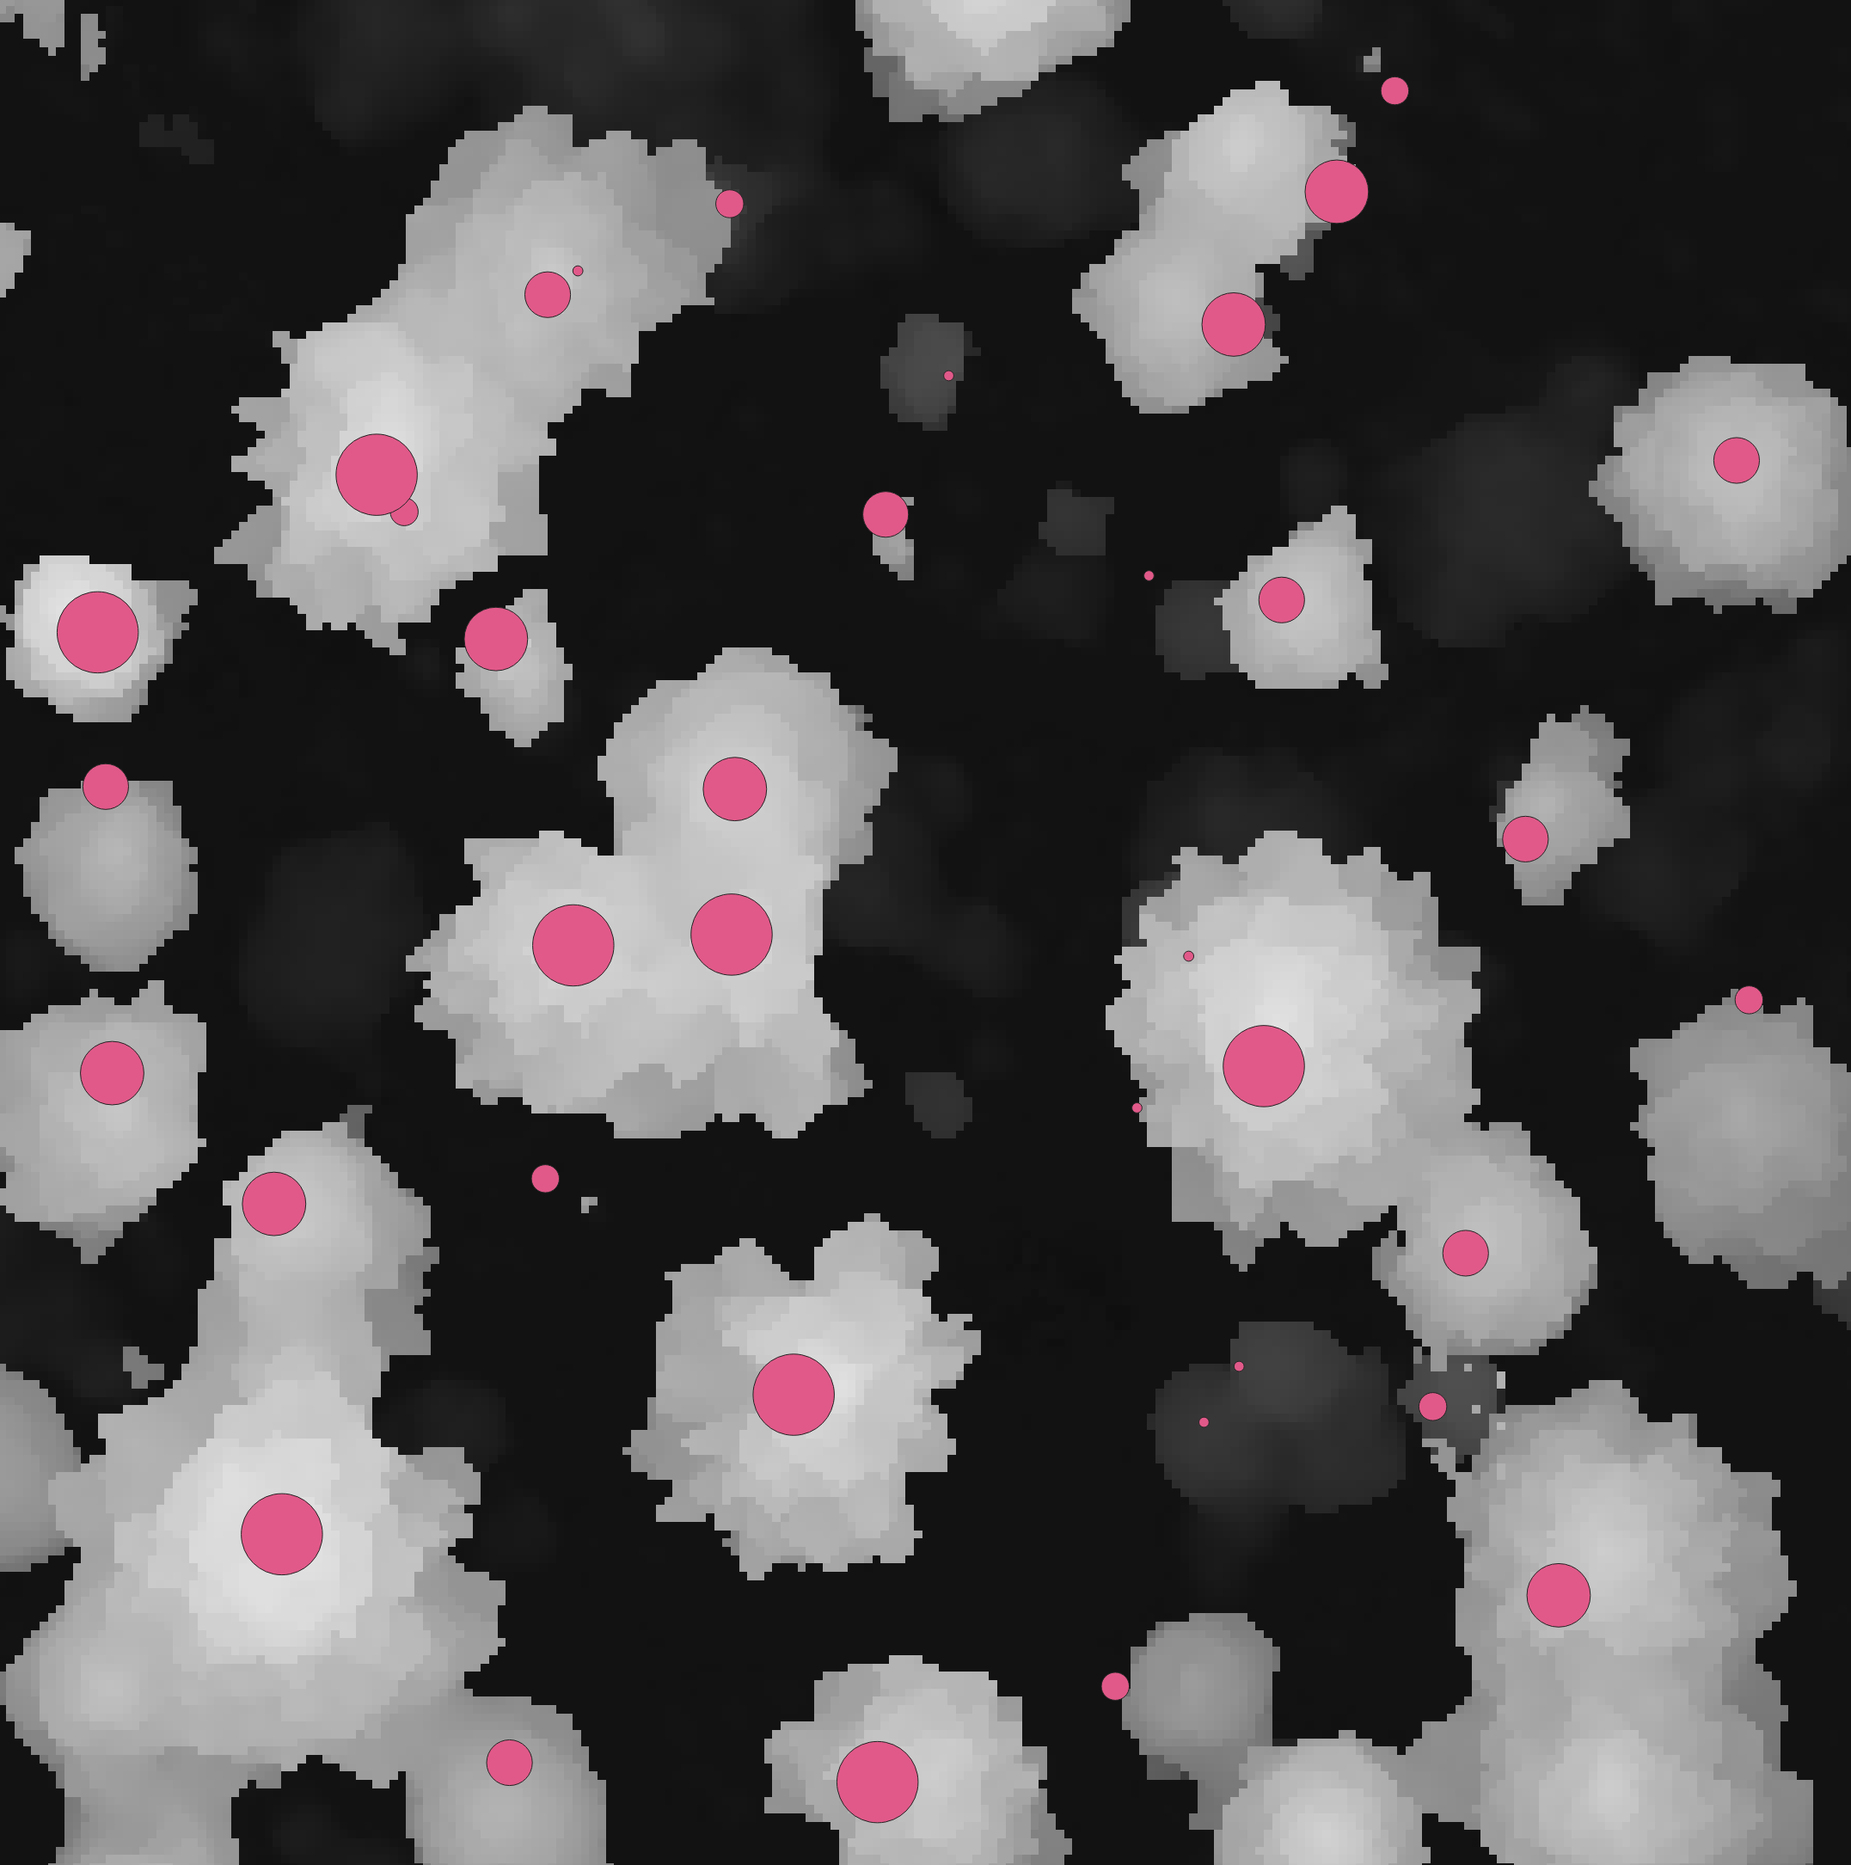
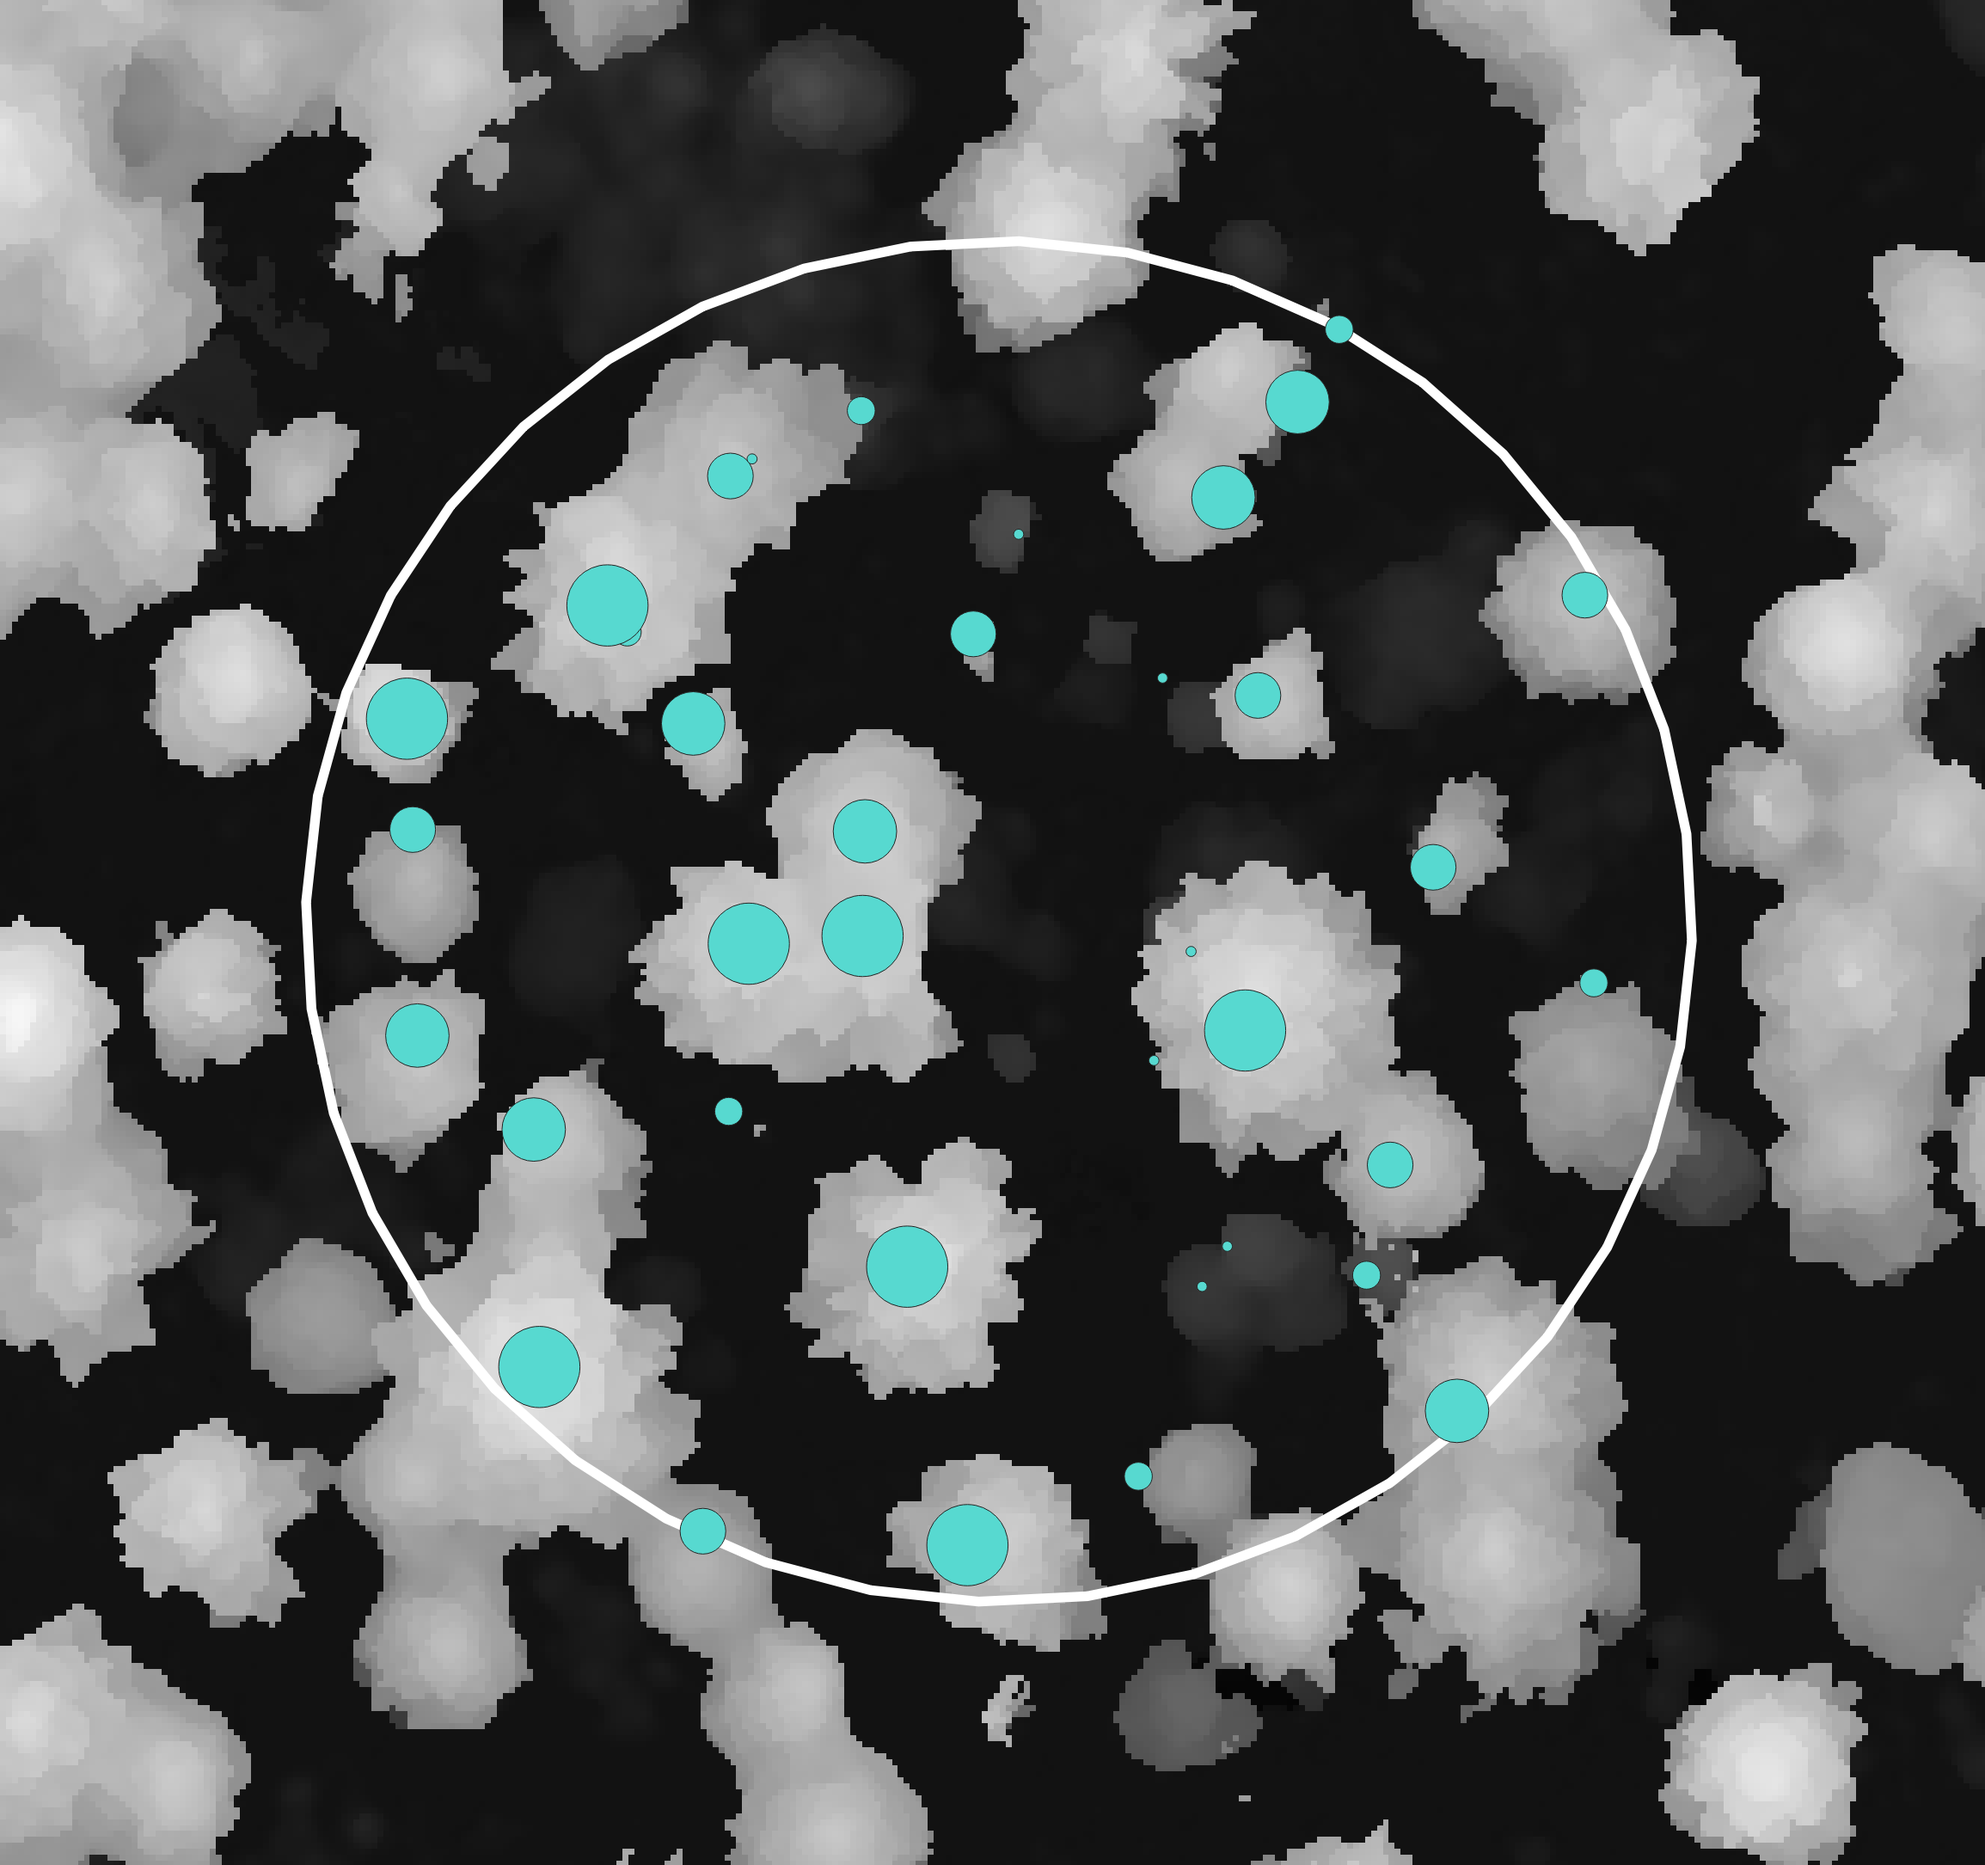
Reorganize the coregistration description and update images

diff --git a/docs/tutorials/itd-eval/1_registration.md b/docs/tutorials/itd-eval/1_registration.md
@@ -4,11 +4,7 @@ weight: 20
 
 # Task 1: Co-registration
 
-Before comparing predicted trees against ground reference data, we need to make sure the two datasets are spatially co-registered. While both the drone imagery and reference tree locations are georeferenced with GPS, each set of measurements can have an independent bias due to atmospheric effects. This creates a spatial offset which is commonly on the order of several meters between the two sets of data. An example of this phenomana can be seen below, where the field reference trees are shifted upward and slightly left relative to the corresponding drone trees.
-
-![initial registration](/assets/images/tutorials/registration-initial.png)
-
-The OFO has developed a tool called [tree registration and matching](https://github.com/open-forest-observatory/tree-registration-and-matching) to automatically identify the spatial registration between two datasets. The specific algorithm we will be using registers a set of ground reference trees to a drone-derived [CHM].
+Before comparing predicted trees against ground reference data, we need to make sure the two datasets are spatially co-registered.
 
 ## Required input data
 
@@ -46,14 +42,13 @@ The OFO has developed a tool called [tree registration and matching](https://git
     ```
 
 ## Registration using height correlation
+While both the drone imagery and reference tree locations are georeferenced with GPS, each set of measurements can have an independent bias due to atmospheric effects. This creates a spatial offset which is commonly on the order of several meters between the two sets of data. An example of this phenomana can be seen below, where the field reference trees are shifted upward and slightly left relative to the corresponding drone trees. Note that the white line represents plot bounds, showing the region within which trees were surveyed.
 
-To align the drone and reference data we use an algorithm that takes the [CHM] linked above and reference tree locations and heights as input. Specifically, we compute the correlations between the height of the reference trees and the location on the CHM at which the trees are, across a grid of shifts from the initial location. The shift which maximizes the correlation between observed and CHM-derived height is considered the optimal registration.
+![initial registration](/assets/images/tutorials/registration-initial.png)
 
-The optimal shift is used to create a shifted copy of the original trees. Also, a summary file is created describing the shift, as well as some diagnostic metrics that can be used to interpret whether the result is likely to be correct.
+The OFO has developed a tool called [tree registration and matching](https://github.com/open-forest-observatory/tree-registration-and-matching) to automatically identify the spatial registration between two datasets. The specific algorithm we will be using registers a set of ground reference trees to a drone-derived [CHM].
 
-An example of the shifted trees is shown below. Note that now the surveyed tree tops match up much better with the drone data. While there are some errors, these errors are in different directions, so no single shift would improve all trees dramatically.
-
-![final registration](/assets/images/tutorials/registration-final.png)
+To align the drone and reference data we use an algorithm that takes the [CHM] linked above and reference tree locations and heights as input. Specifically, we compute the correlations between the height of the reference trees and the location on the CHM at which the trees are, across a grid of shifts from the initial location. The shift which maximizes the correlation between observed and CHM-derived height is considered the optimal registration. The commands to run this algorithm are below.
 
 === "Docker"
 
@@ -99,3 +94,9 @@ An example of the shifted trees is shown below. Note that now the surveyed tree 
     # TODO write out the appropriate parts of the entrypoint here:
     # https://github.com/open-forest-observatory/tree-registration-and-matching/blob/4246c5185833061989c91314eddec71d28cafb19/tree_registration_and_matching/entrypoints/match_field_attributes_to_drone.py#L15
     ```
+
+The optimal shift is used to create a shifted copy of the original trees. Also, a summary file is created describing the shift, as well as diagnostic metrics that can be used to interpret whether the result is likely to be correct.
+
+A visualization of the shifted trees is shown below. Note that now the surveyed tree tops match up much better with the drone data. While there are some errors, these errors are in different directions, so no single shift would improve all trees dramatically.
+
+![final registration](/assets/images/tutorials/registration-final.png)
